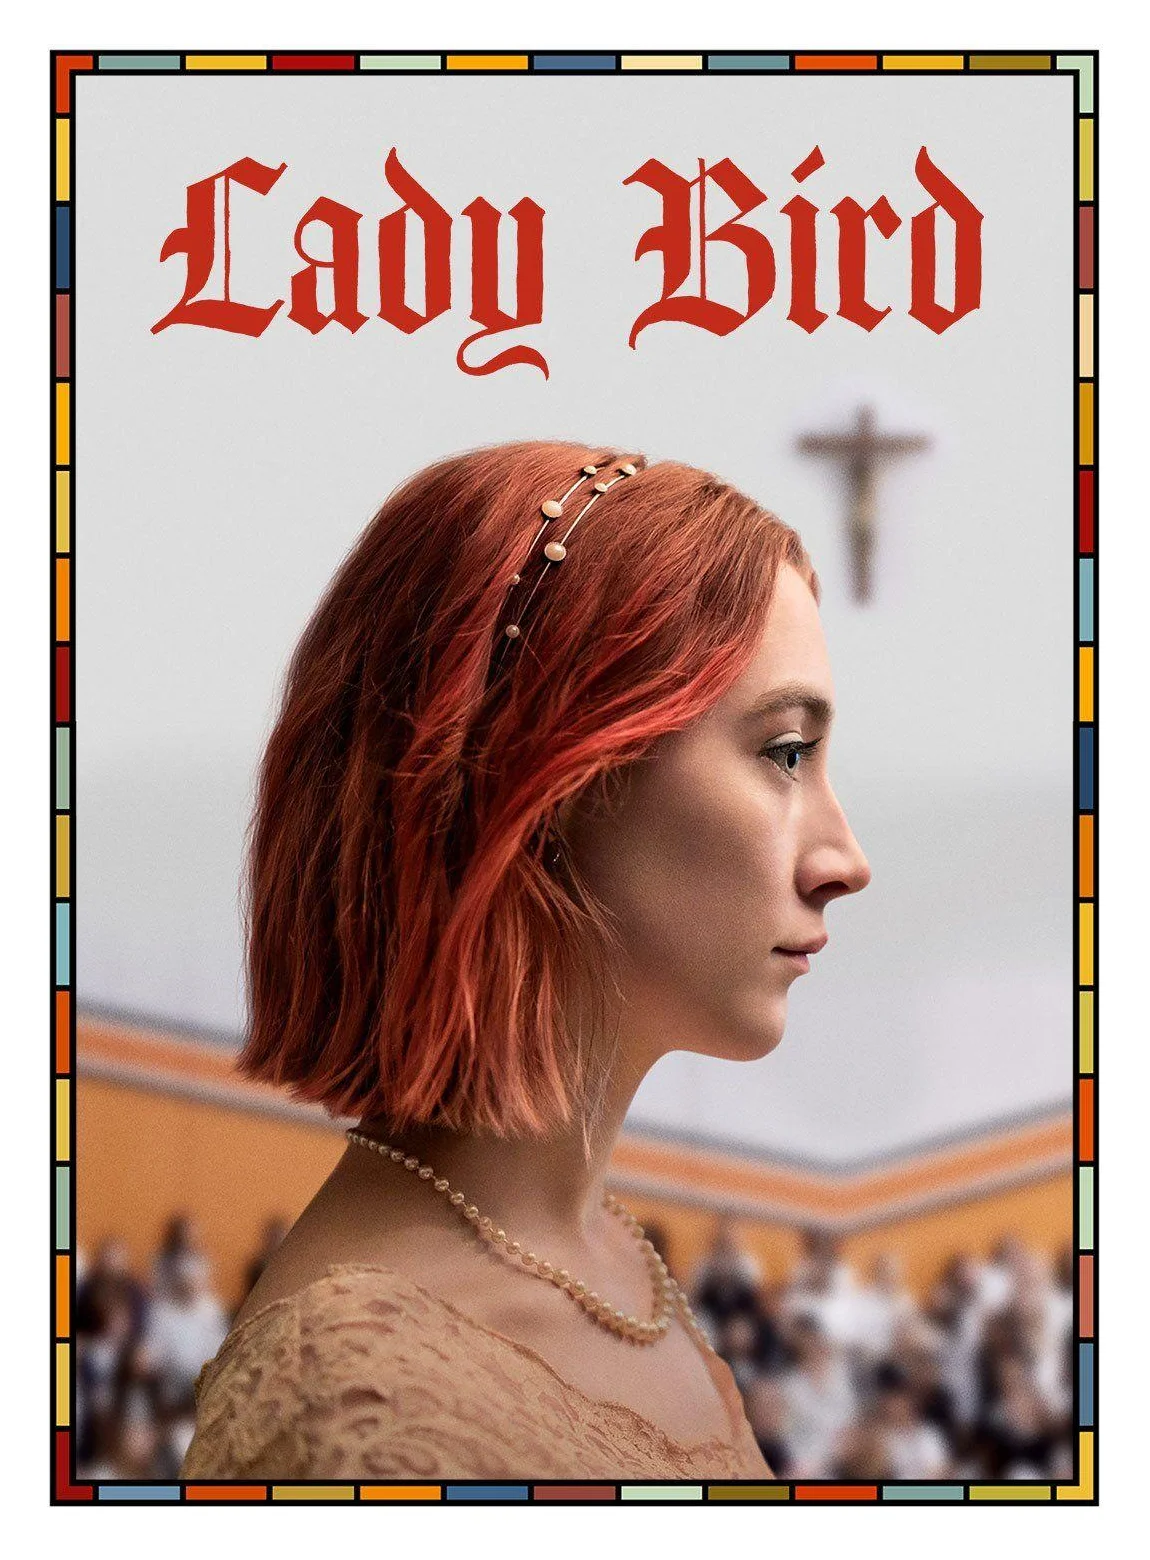
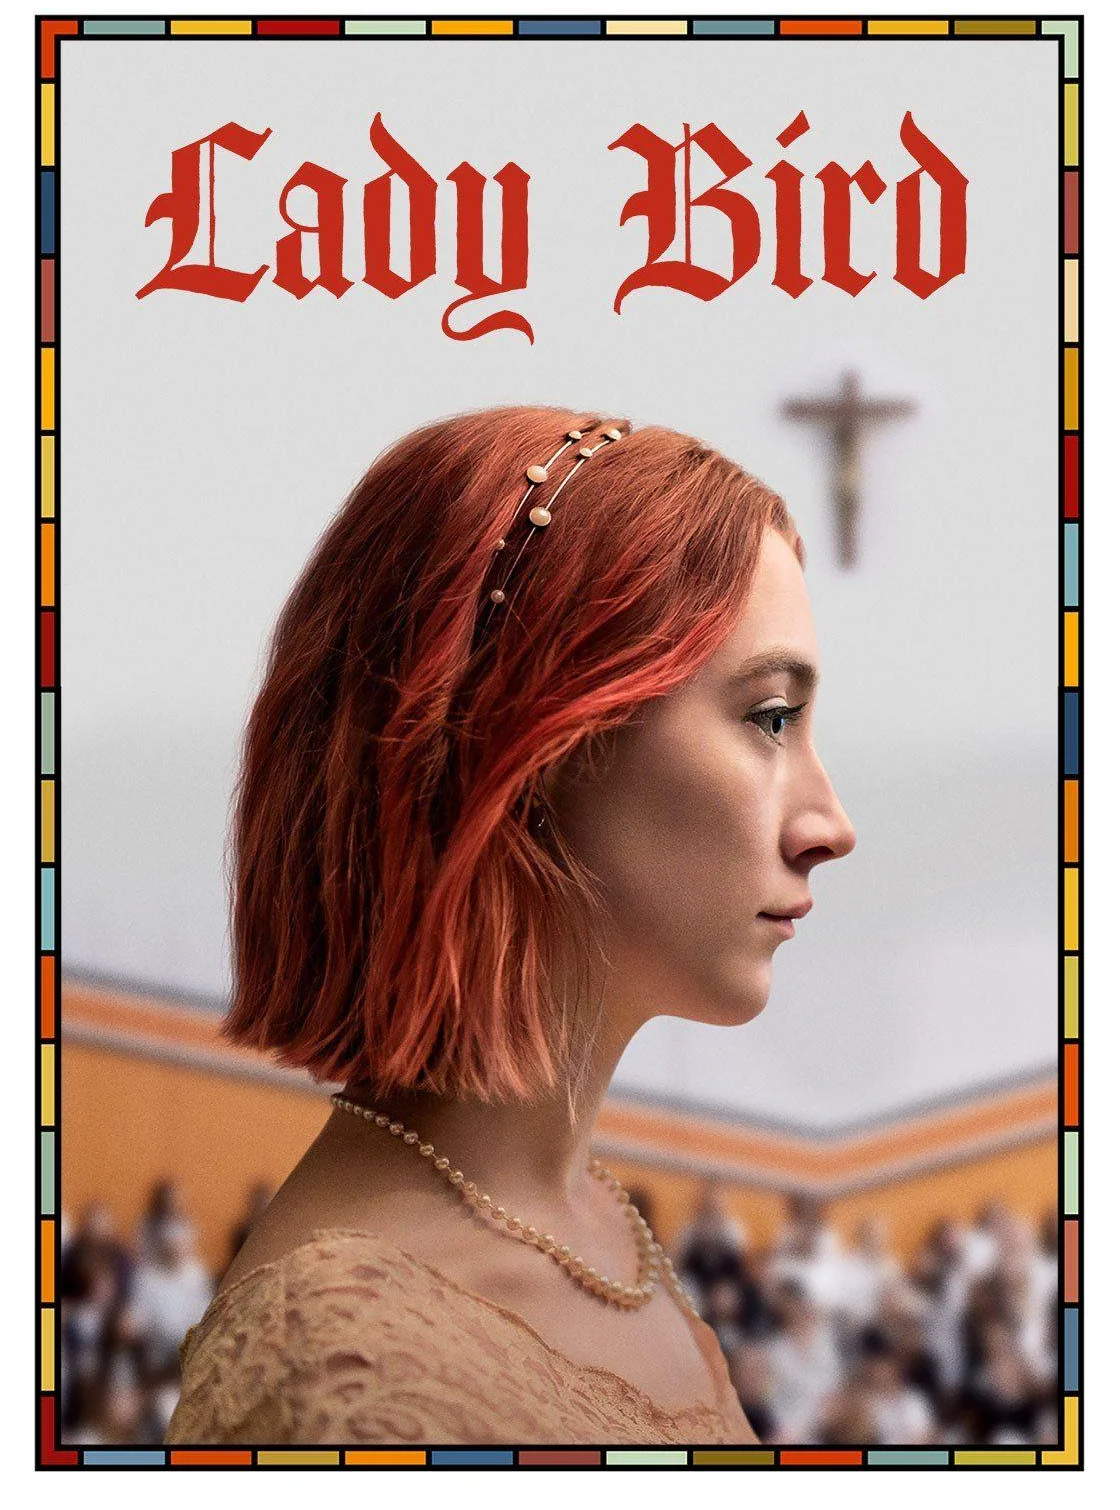
Refine Gerwig tile: trim white margin, adjust selected push-down to 11%
Frame sits flush at top edge, white bg blends seamlessly.

diff --git a/src/App.jsx b/src/App.jsx
@@ -915,12 +915,12 @@ function HomeScreen({ onNavigate, spoilerFree, setSpoilerFree, onSubmit, selecte
       subtitle: "The Director's Lens",
       available: false,
       gradient: "linear-gradient(160deg, #9a8040 0%, #b89850 100%)",
-      bgImage: "/jd-universes-poc/images/gerwig-key-art.webp?v=3",
+      bgImage: "/jd-universes-poc/images/gerwig-key-art.webp?v=5",
       bgColor: "#ffffff",
       bgFit: "cover",
       bgPosition: "top",
       bgPositionSelected: "top",
-      bgTopSelected: "9%",
+      bgTopSelected: "11%",
       textColor: "#fff",
       subColor: "rgba(255,255,255,0.7)",
       image: "🎬",

diff --git a/src/PluribusComps.jsx b/src/PluribusComps.jsx
@@ -915,12 +915,12 @@ function HomeScreen({ onNavigate, spoilerFree, setSpoilerFree, onSubmit, selecte
       subtitle: "The Director's Lens",
       available: false,
       gradient: "linear-gradient(160deg, #9a8040 0%, #b89850 100%)",
-      bgImage: "/jd-universes-poc/images/gerwig-key-art.webp?v=3",
+      bgImage: "/jd-universes-poc/images/gerwig-key-art.webp?v=5",
       bgColor: "#ffffff",
       bgFit: "cover",
       bgPosition: "top",
       bgPositionSelected: "top",
-      bgTopSelected: "9%",
+      bgTopSelected: "11%",
       textColor: "#fff",
       subColor: "rgba(255,255,255,0.7)",
       image: "🎬",
